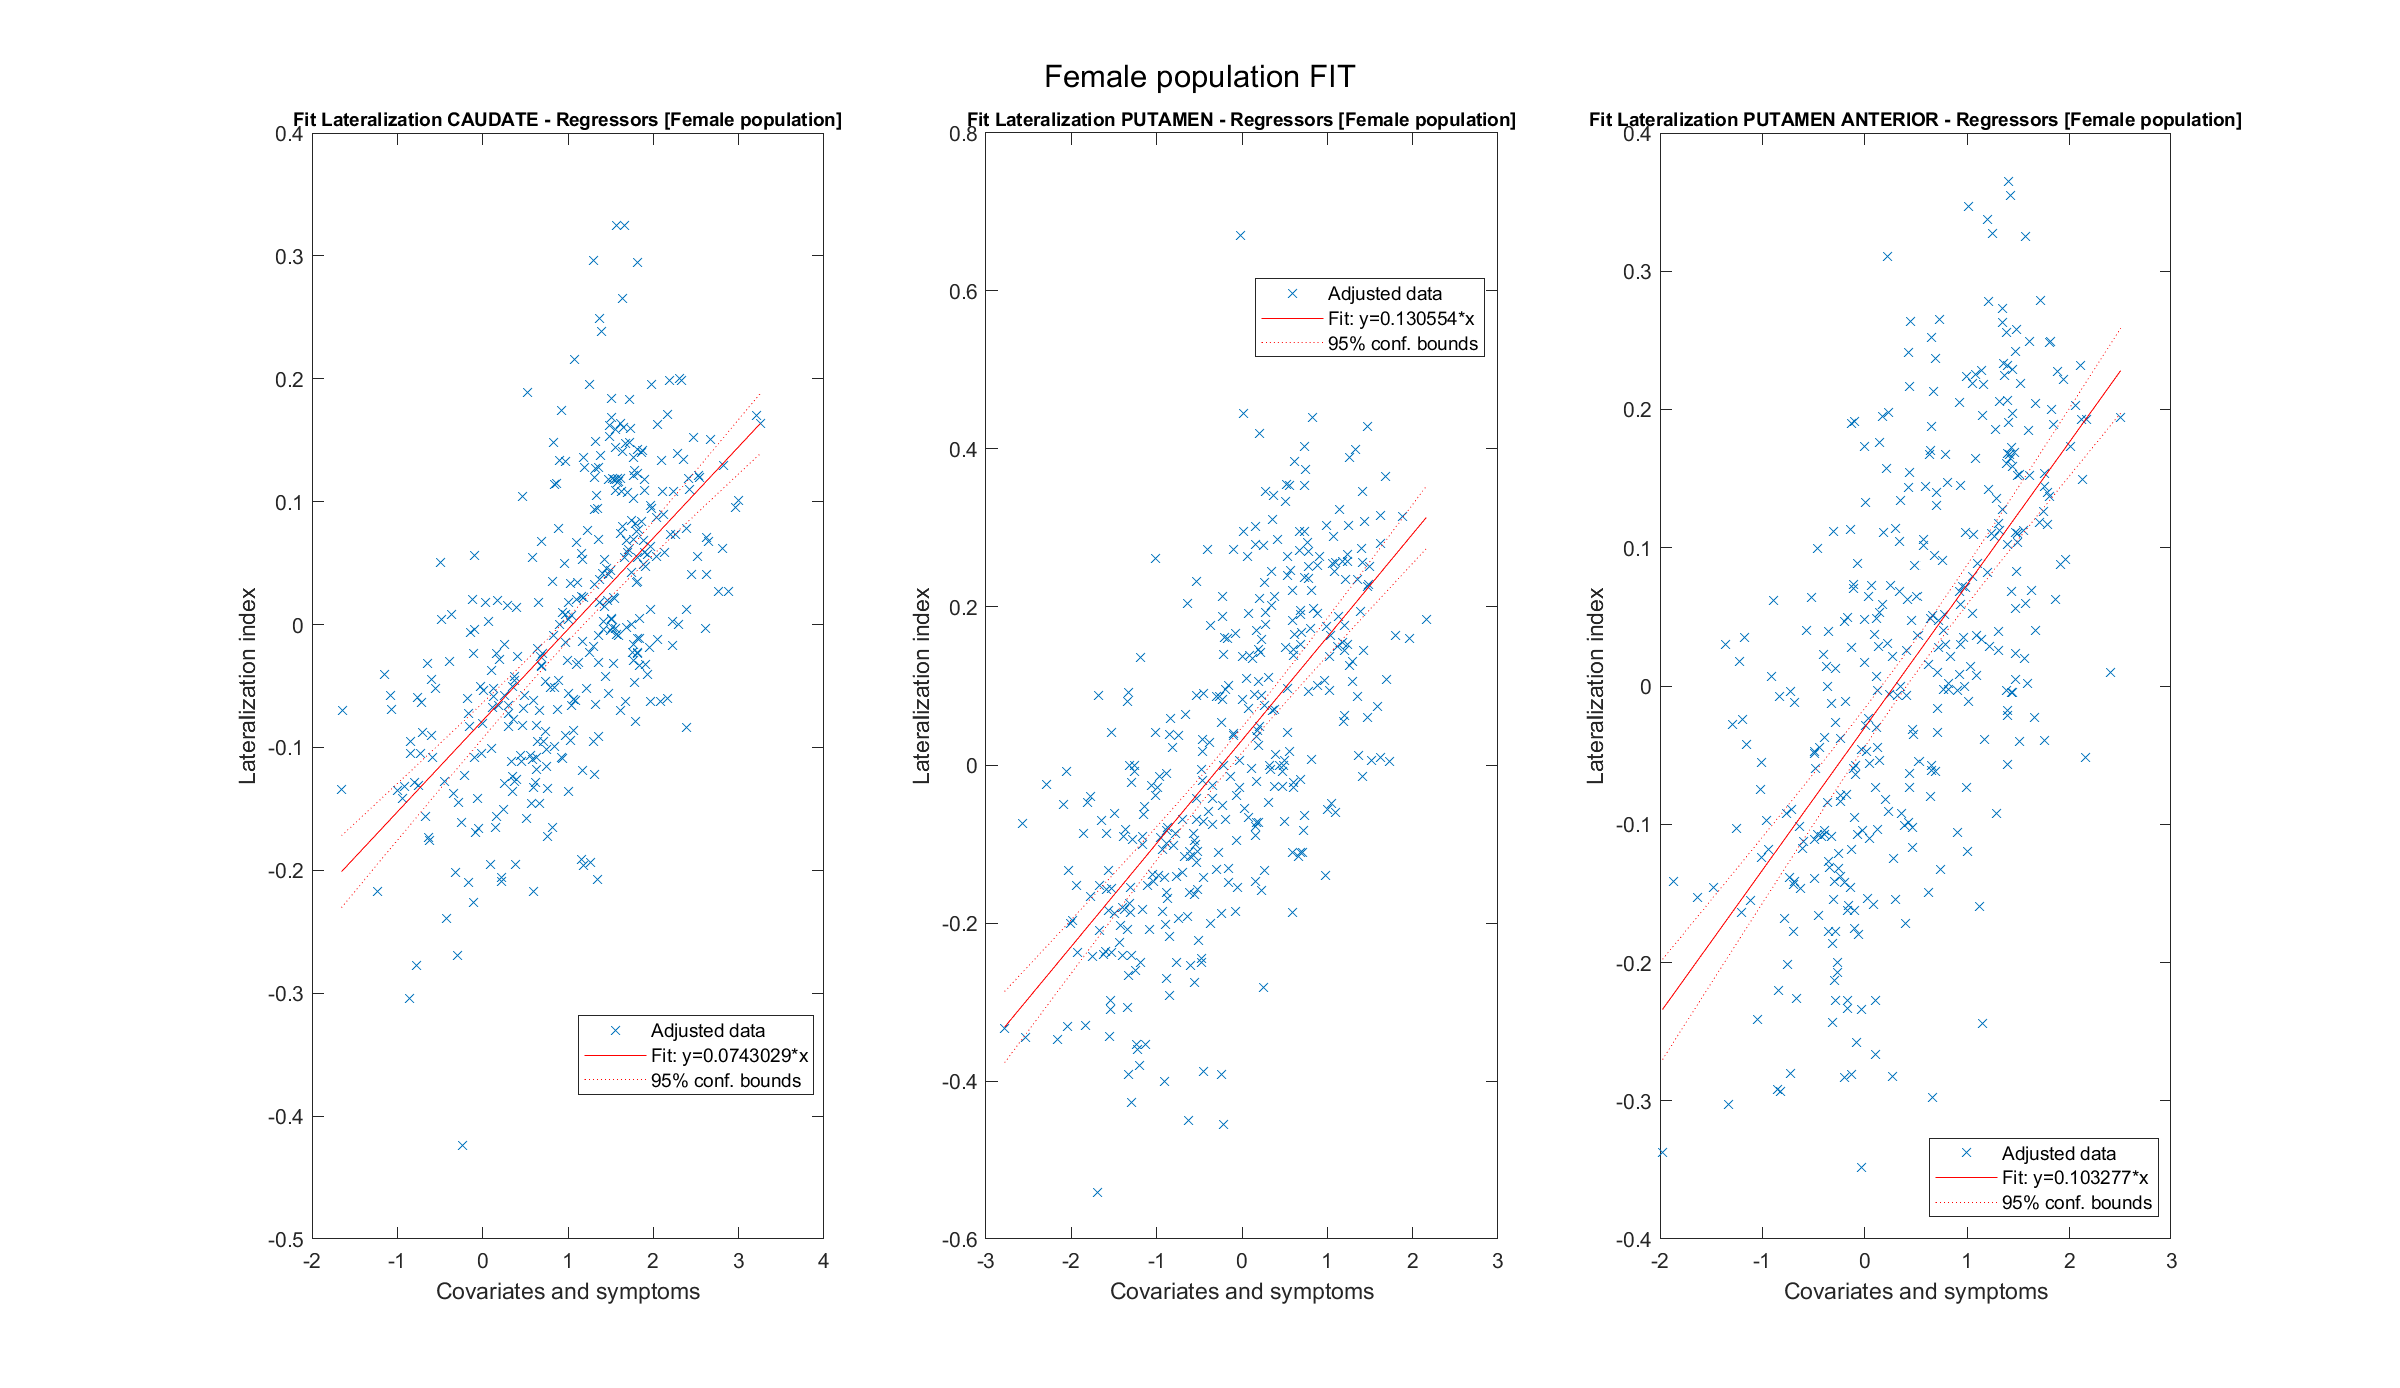
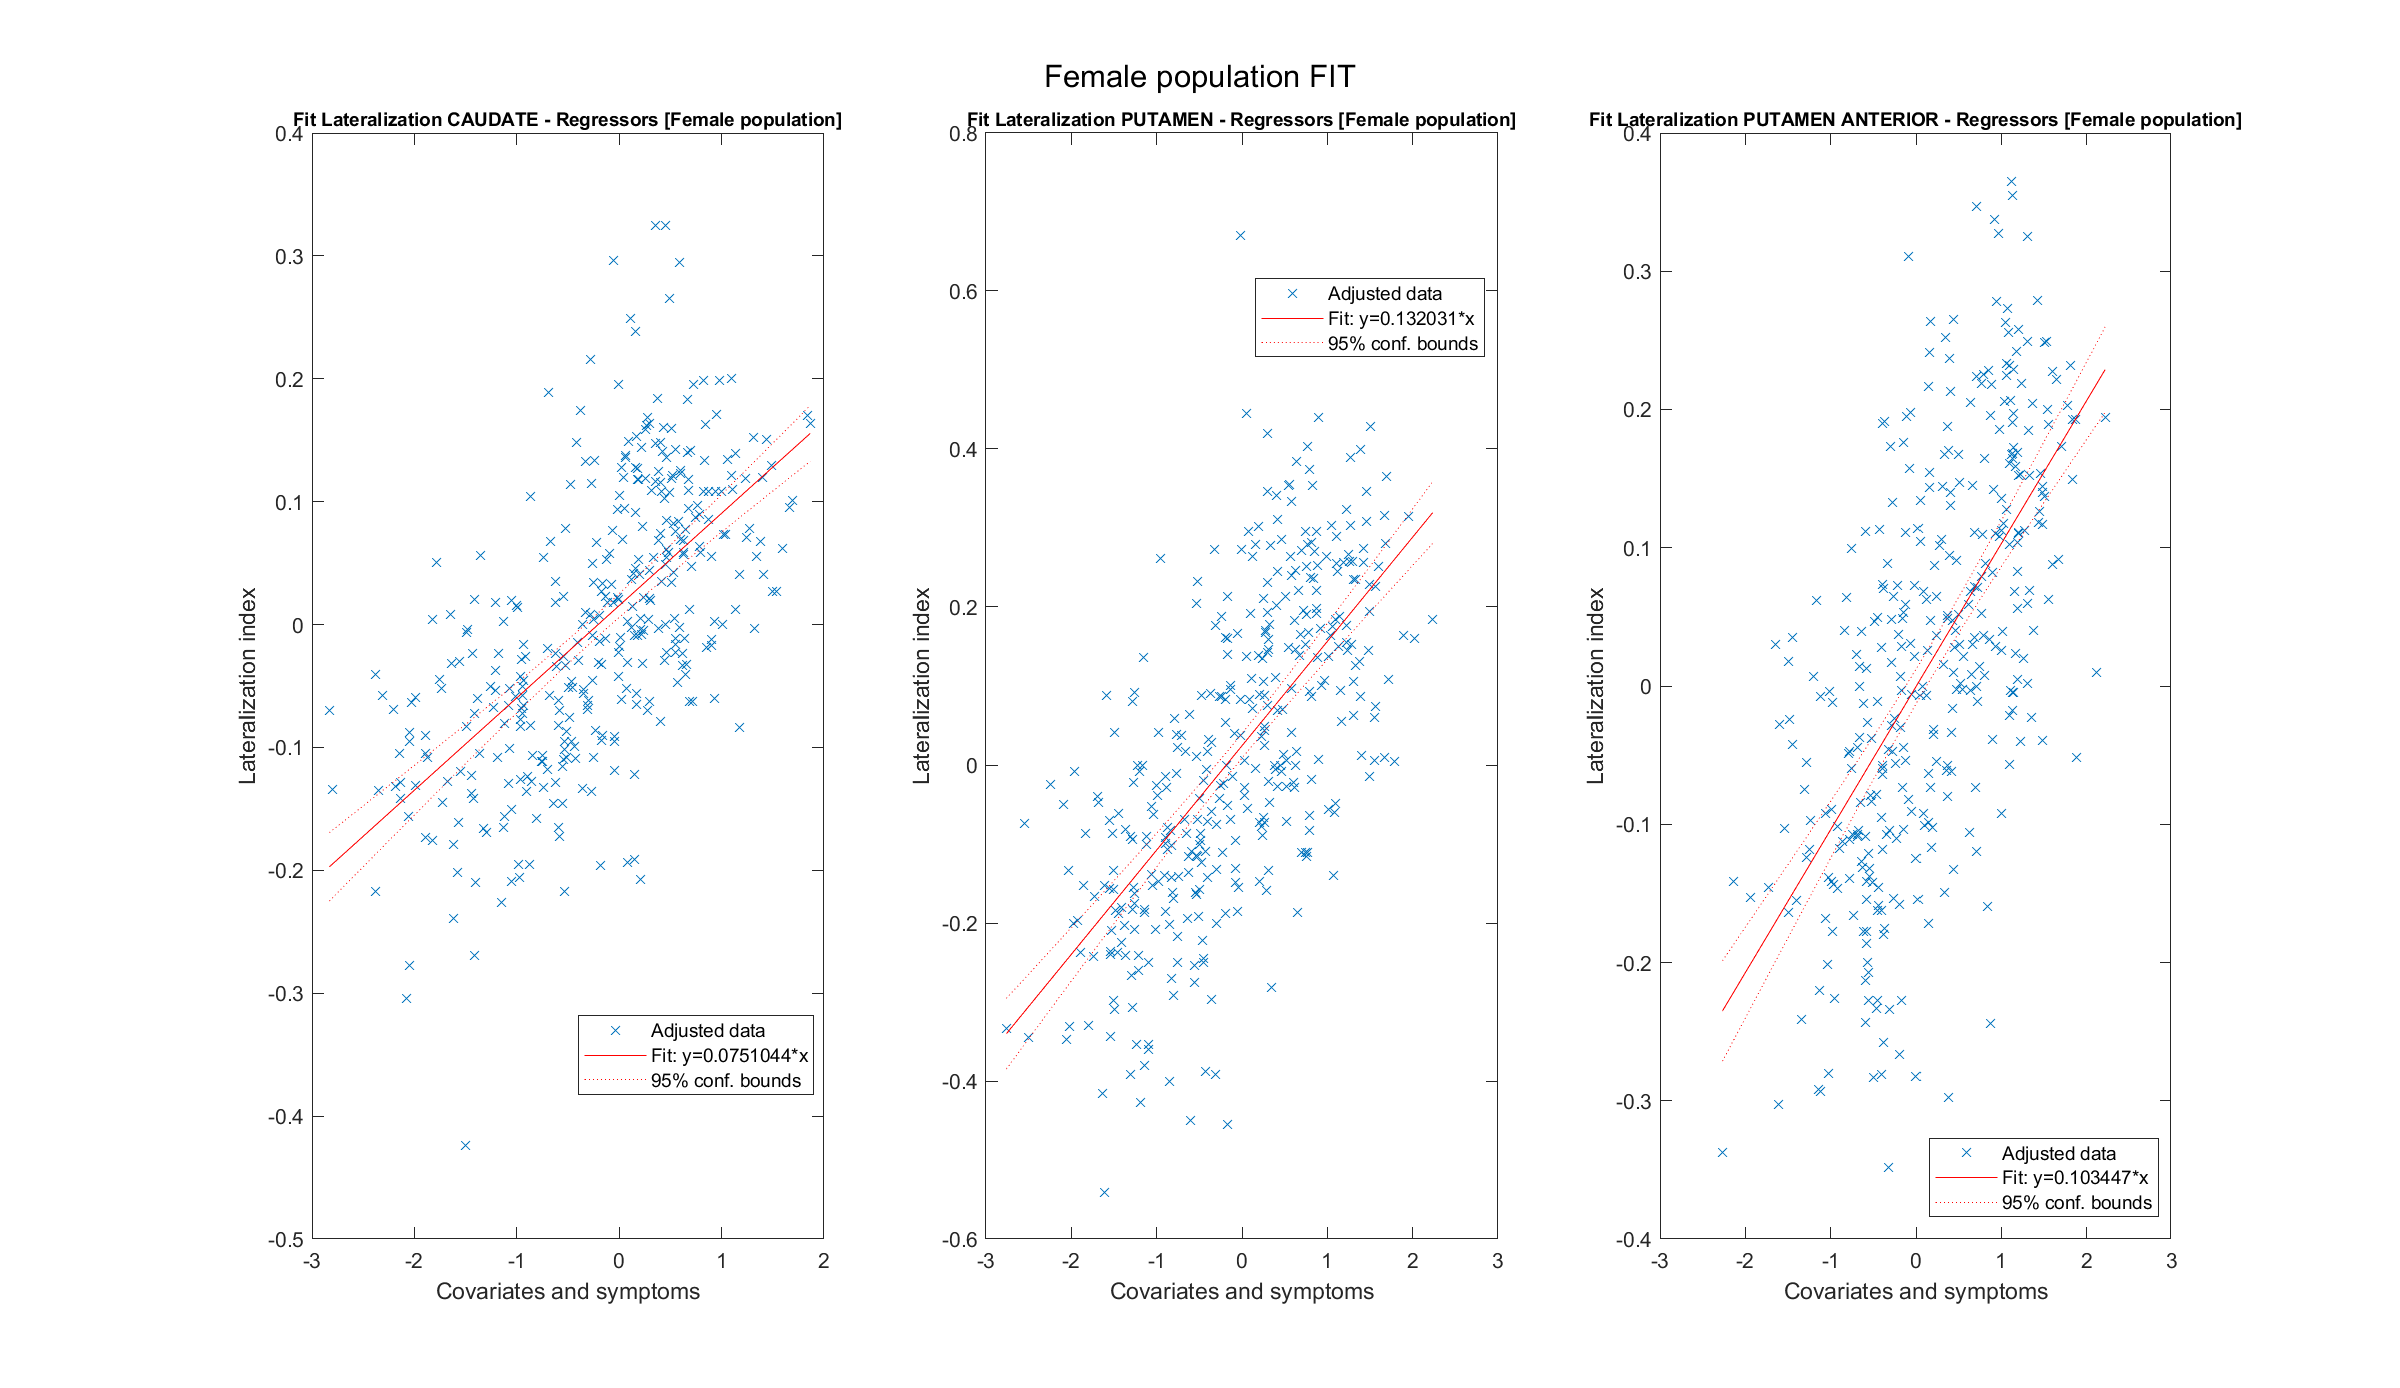
choose covariates

Changed region(s): [[0.7188, 0.2169, 0.875, 0.7435], [0.4375, 0.3408, 0.5938, 0.7435], [0.1562, 0.2788, 0.3125, 0.6506]]

diff --git a/hm_biomarkers_new_version.m b/hm_biomarkers_new_version.m
@@ -800,12 +800,49 @@ for i=1:3
 
 end
 
+a = regressors_pd_array.CAUDATE;
+a(:,2) = [];
+b = regressors_pd_array.CAUDATE;
+b(:,3) = [];
+c = [regressors_pd_array.CAUDATE(:,2),regressors_pd_array.CAUDATE(:,4:end)];
+d = [regressors_pd_array.CAUDATE(:,1),regressors_pd_array.CAUDATE(:,4:end)];
+
+
+
+permutazioni_caud = {regressors_pd_array.CAUDATE; regressors_pd_array.CAUDATE(:,2:end); regressors_pd_array.CAUDATE(:,3:end);regressors_pd_array.CAUDATE(:,4:end);a ; b;c;d};
+names_permutazioni_caud = {'ALL';'HEIGHT & WEIGHT';'WEIGHT';'NOTHING';'AGE & WEIGHT';'AGE & HEIGHT';'AGE';'HEIGHT'};
+R_squared_caud = [];
+model_caud_pd = {};
+
+clear a b c d
+
+permutazioni_put = {regressors_pd_array.PUTAMEN;regressors_pd_array.PUTAMEN(:,2:end)};
+names_permutazioni_put = {'WEIGHT';'NOTHING'};
+R_squared_put = [];
+model_put_pd= {};
+
+a = regressors_pd_array.PUTAMEN_ANT;
+a(:,2) = [];
+permutazioni_put_ant = {regressors_pd_array.PUTAMEN_ANT; regressors_pd_array.PUTAMEN_ANT(:,2:end); regressors_pd_array.PUTAMEN_ANT(:,3:end); a};
+names_permutazioni_put_ant = {'ALL';'WEIGHT';'NOTHING';'HEIGHT'};
+R_squared_put_ant = [];
+model_put_ant_pd = {};
+
+clear a
+
+
+
 figure(26)
 set(gcf, 'Position', get(0, 'Screensize'));
 
 subplot(131)
-model_caud_pd = fitlm(regressors_pd_array.CAUDATE,NOT_ABS.LATERALIZATION_coeff.CAUDATE.PD);
-plot(model_caud_pd)
+for i=1:8
+    model_caud_pd{i} = fitlm(permutazioni_caud{i},NOT_ABS.LATERALIZATION_coeff.CAUDATE.PD);
+    R_squared_caud(i) = model_caud_pd{i}.Rsquared.Adjusted;
+end
+[max_R_squared_caud,idx_max_R_squared_caud] = max(R_squared_caud);
+plot(model_caud_pd{idx_max_R_squared_caud})
+covariate_fit.CAUDATE.ALL = names_permutazioni_caud{idx_max_R_squared_caud};
 % xlim([-0.5 0.6])
 % ylim([-0.6 0.8])
 xlabel('Covariates and symptoms')
@@ -813,8 +850,16 @@ ylabel('Lateralization index')
 title('Caudate linear fit - PD')
 
 subplot(132)
-model_put_pd = fitlm(regressors_pd_array.PUTAMEN,NOT_ABS.LATERALIZATION_coeff.PUTAMEN.PD);
-plot(model_put_pd)
+for i=1:2
+    model_put_pd{i} = fitlm(permutazioni_put{i},NOT_ABS.LATERALIZATION_coeff.PUTAMEN.PD);
+    R_squared_put(i) = model_put_pd{i}.Rsquared.Adjusted;
+end
+[max_R_squared_put,idx_max_R_squared_put] = max(R_squared_put);
+
+plot(model_put_pd{idx_max_R_squared_put})
+covariate_fit.PUTAMEN.ALL = names_permutazioni_put{idx_max_R_squared_put};
+
+
 % xlim([-0.5 0.6])
 % ylim([-0.6 0.8])
 xlabel('Covariates and symptoms')
@@ -822,8 +867,16 @@ ylabel('Lateralization index')
 title('Putamen linear fit - PD')
 
 subplot(133)
-model_put_ant_pd = fitlm(regressors_pd_array.PUTAMEN_ANT,NOT_ABS.LATERALIZATION_coeff.PUTAMEN_ANT.PD);
-plot(model_put_ant_pd)
+for i=1:4
+    model_put_ant_pd{i} = fitlm(permutazioni_put_ant{i},NOT_ABS.LATERALIZATION_coeff.PUTAMEN_ANT.PD);
+    R_squared_put_ant(i) = model_put_ant_pd{i}.Rsquared.Adjusted;
+end
+[max_R_squared_put_ant,idx_max_R_squared_put_ant] = max(R_squared_put_ant);
+
+plot(model_put_ant_pd{idx_max_R_squared_put_ant})
+covariate_fit.PUTAMEN_ANT.ALL = names_permutazioni_put_ant{idx_max_R_squared_put_ant};
+
+
 % xlim([-0.5 0.6])
 % ylim([-0.6 0.8])
 xlabel('Covariates and symptoms')
@@ -835,9 +888,9 @@ sgtitle('Lateralization index - Regressors FIT PD')
 saveas(figure(26), "fit_covariates_pd.png", "png")
 
 %% ----- Statistics
-anova_caud_pd = anova(model_caud_pd,'summary');
-anova_put_pd = anova(model_put_pd,'summary');
-anova_put_ant_pd = anova(model_put_ant_pd,'summary');
+anova_caud_pd = anova(model_caud_pd{idx_max_R_squared_caud},'summary');
+anova_put_pd = anova(model_put_pd{idx_max_R_squared_put},'summary');
+anova_put_ant_pd = anova(model_put_ant_pd{idx_max_R_squared_put},'summary');
 
 
 %% SEPARATIONS Male - Female
@@ -858,28 +911,74 @@ for i=1:3
     regressors_female_array.(ROIs_labels(i)) = regressors_pd_array.(ROIs_labels(i))(idx_female_population,:);
 end
 
+% Permutazioni Male
+a = regressors_male_array.CAUDATE;
+a(:,2) = [];
+b = regressors_male_array.CAUDATE;
+b(:,3) = [];
+c = [regressors_male_array.CAUDATE(:,2),regressors_male_array.CAUDATE(:,4:end)];
+d = [regressors_male_array.CAUDATE(:,1),regressors_male_array.CAUDATE(:,4:end)];
+
+permutazioni_caud_male = {regressors_male_array.CAUDATE; regressors_male_array.CAUDATE(:,2:end); regressors_male_array.CAUDATE(:,3:end);regressors_male_array.CAUDATE(:,4:end);a ; b;c;d};
+R_squared_caud_male = [];
+model_caud_male = {};
+
+clear a b c d
+
+permutazioni_put_male = {regressors_male_array.PUTAMEN;regressors_male_array.PUTAMEN(:,2:end)};
+R_squared_put_male = [];
+model_put_male= {};
+
+a = regressors_male_array.PUTAMEN_ANT;
+a(:,2) = [];
+permutazioni_put_ant_male = {regressors_male_array.PUTAMEN_ANT; regressors_male_array.PUTAMEN_ANT(:,2:end); regressors_male_array.PUTAMEN_ANT(:,3:end); a};
+R_squared_put_ant_male = [];
+model_put_ant_male = {};
+
+clear a
+
+
 % Male fit
-model_caud_male = fitlm(regressors_male_array.CAUDATE,male_lateralization_coeff.CAUDATE);
-model_put_male = fitlm(regressors_male_array.PUTAMEN,male_lateralization_coeff.PUTAMEN);
-model_put_ant_male = fitlm(regressors_male_array.PUTAMEN_ANT,male_lateralization_coeff.PUTAMEN_ANT);
+for i=1:8
+    model_caud_male{i} = fitlm(permutazioni_caud_male{i},male_lateralization_coeff.CAUDATE);
+    R_squared_caud_male(i) = model_caud_male{i}.Rsquared.Adjusted;
+end
+[max_R_squared_caud_male,idx_max_R_squared_caud_male] = max(R_squared_caud_male);
+covariate_fit.CAUDATE.MALE = names_permutazioni_caud{idx_max_R_squared_caud_male};
+
+for i=1:2
+    model_put_male{i} = fitlm(permutazioni_put_male{i},male_lateralization_coeff.PUTAMEN);
+    R_squared_put_male(i) = model_put_male{i}.Rsquared.Adjusted;
+end
+[max_R_squared_put_male,idx_max_R_squared_put_male] = max(R_squared_put_male);
+covariate_fit.PUTAMEN.MALE = names_permutazioni_put{idx_max_R_squared_put_male};
+
+
+for i=1:4
+    model_put_ant_male{i} = fitlm(permutazioni_put_ant_male{i},male_lateralization_coeff.PUTAMEN_ANT);
+    R_squared_put_ant_male(i) = model_put_ant_male{i}.Rsquared.Adjusted;
+end
+[max_R_squared_put_ant_male,idx_max_R_squared_put_ant_male] = max(R_squared_put_ant_male);
+covariate_fit.PUTAMEN_ANT.MALE = names_permutazioni_put_ant{idx_max_R_squared_put_ant_male};
+
 
 figure(27)
 set(gcf, 'Position', get(0, 'Screensize'));
 
 subplot(131)
-plot(model_caud_male)
+plot(model_caud_male{idx_max_R_squared_caud_male})
 xlabel('Covariates and symptoms')
 ylabel('Lateralization index')
 t = title('Fit Lateralization CAUDATE - Regressors [Male population]');
 set(t, 'FontSize', 9)
 subplot(132)
-plot(model_put_male)
+plot(model_put_male{idx_max_R_squared_put_male})
 xlabel('Covariates and symptoms')
 ylabel('Lateralization index')
 t = title('Fit Lateralization PUTAMEN - Regressors [Male population]');
 set(t, 'FontSize', 9)
 subplot(133)
-plot(model_put_ant_male)
+plot(model_put_ant_male{idx_max_R_squared_put_ant_male})
 xlabel('Covariates and symptoms')
 ylabel('Lateralization index')
 t = title('Fit Lateralization PUTAMEN ANTERIOR - Regressors [Male population]');
@@ -889,40 +988,83 @@ sgtitle('Male population FIT')
 saveas(figure(27), "fit_covariates_male.png", "png")
 clear t
 
+
+
+% Permutazioni Female
+a = regressors_female_array.CAUDATE;
+a(:,2) = [];
+b = regressors_female_array.CAUDATE;
+b(:,3) = [];
+c = [regressors_female_array.CAUDATE(:,2),regressors_female_array.CAUDATE(:,4:end)];
+d = [regressors_female_array.CAUDATE(:,1),regressors_female_array.CAUDATE(:,4:end)];
+
+permutazioni_caud_female = {regressors_female_array.CAUDATE; regressors_female_array.CAUDATE(:,2:end); regressors_female_array.CAUDATE(:,3:end);regressors_female_array.CAUDATE(:,4:end);a ; b;c;d};
+R_squared_caud_female = [];
+model_caud_female = {};
+
+clear a b c d
+
+permutazioni_put_female = {regressors_female_array.PUTAMEN;regressors_female_array.PUTAMEN(:,2:end)};
+R_squared_put_female = [];
+model_put_female= {};
+
+a = regressors_female_array.PUTAMEN_ANT;
+a(:,2) = [];
+permutazioni_put_ant_female = {regressors_female_array.PUTAMEN_ANT; regressors_female_array.PUTAMEN_ANT(:,2:end); regressors_female_array.PUTAMEN_ANT(:,3:end); a};
+R_squared_put_ant_female = [];
+model_put_ant_female = {};
+
+clear a
+
 % Female fit
 
-model_caud_female = fitlm(regressors_female_array.CAUDATE,female_lateralization_coeff.CAUDATE);
-model_put_female = fitlm(regressors_female_array.PUTAMEN,female_lateralization_coeff.PUTAMEN);
-model_put_ant_female = fitlm(regressors_female_array.PUTAMEN_ANT,female_lateralization_coeff.PUTAMEN_ANT);
+for i=1:8
+    model_caud_female{i} = fitlm(permutazioni_caud_female{i},female_lateralization_coeff.CAUDATE);
+    R_squared_caud_female(i) = model_caud_female{i}.Rsquared.Adjusted;
+end
+[max_R_squared_caud_female,idx_max_R_squared_caud_female] = max(R_squared_caud_female);
+covariate_fit.CAUDATE.FEMALE = names_permutazioni_caud{idx_max_R_squared_caud_female};
+
+for i=1:2
+    model_put_female{i} = fitlm(permutazioni_put_female{i},female_lateralization_coeff.PUTAMEN);
+    R_squared_put_female(i) = model_put_female{i}.Rsquared.Adjusted;
+end
+[max_R_squared_put_female,idx_max_R_squared_put_female] = max(R_squared_put_female);
+covariate_fit.PUTAMEN.FEMALE = names_permutazioni_put{idx_max_R_squared_put_female};
+
+for i=1:4
+    model_put_ant_female{i} = fitlm(permutazioni_put_ant_female{i},female_lateralization_coeff.PUTAMEN_ANT);
+    R_squared_put_ant_female(i) = model_put_ant_female{i}.Rsquared.Adjusted;
+end
+[max_R_squared_put_ant_female,idx_max_R_squared_put_ant_female] = max(R_squared_put_ant_female);
+covariate_fit.PUTAMEN_ANT.FEMALE = names_permutazioni_put_ant{idx_max_R_squared_put_ant_female};
 
 figure(28)
 set(gcf, 'Position', get(0, 'Screensize'));
 
 subplot(131)
-plot(model_caud_female)
+plot(model_caud_female{idx_max_R_squared_caud_female})
 xlabel('Covariates and symptoms')
 ylabel('Lateralization index')
 t = title('Fit Lateralization CAUDATE - Regressors [Female population]');
 set(t, 'FontSize', 9)
 subplot(132)
-plot(model_put_female)
+plot(model_put_female{idx_max_R_squared_put_female})
 xlabel('Covariates and symptoms')
 ylabel('Lateralization index')
 t = title('Fit Lateralization PUTAMEN - Regressors [Female population]');
 set(t, 'FontSize', 9)
 subplot(133)
-plot(model_put_ant_female)
+plot(model_put_ant_female{idx_max_R_squared_put_ant_female})
 xlabel('Covariates and symptoms')
 ylabel('Lateralization index')
-t=title('Fit Lateralization PUTAMEN ANTERIOR - Regressors [Female population]');
+t = title('Fit Lateralization PUTAMEN ANTERIOR - Regressors [Female population]');
 set(t, 'FontSize', 9)
 
-
 sgtitle('Female population FIT')
-
 saveas(figure(28), "fit_covariates_female.png", "png")
-
 clear t
+
 
 
 %% SIMPTOMS LATERALITY INDEX
@@ -1003,6 +1145,44 @@ saveas(figure(27), "fit asimmetry index.png", "png")
 % 
 % figure
 % plot(mcatot_pd)
+
+% %% Prova lasso
+% 
+% figure(30)
+% set(gcf, 'Position', get(0, 'Screensize'));
+% 
+% subplot(131)
+% coeff_model_caud_pd = lasso(regressors_pd_array.CAUDATE,NOT_ABS.LATERALIZATION_coeff.CAUDATE.PD);
+% lasso_model_caud_pd = fitlm(regressors_pd_array.CAUDATE*coeff_model_caud_pd,NOT_ABS.LATERALIZATION_coeff.CAUDATE.PD);
+% plot(lasso_model_caud_pd)
+% % xlim([-0.5 0.6])
+% % ylim([-0.6 0.8])
+% xlabel('Covariates and symptoms')
+% ylabel('Lateralization index')
+% title('Caudate linear fit - PD')
+% 
+% subplot(132)
+% coeff_model_put_pd = lasso(regressors_pd_array.PUTAMEN,NOT_ABS.LATERALIZATION_coeff.PUTAMEN.PD);
+% lasso_model_put_pd = fitlm(regressors_pd_array.PUTAMEN*coeff_model_put_pd,NOT_ABS.LATERALIZATION_coeff.PUTAMEN.PD);
+% 
+% plot(lasso_model_put_pd)
+% % xlim([-0.5 0.6])
+% % ylim([-0.6 0.8])
+% xlabel('Covariates and symptoms')
+% ylabel('Lateralization index')
+% title('Putamen linear fit - PD')
+% 
+% subplot(133)
+% coeff_model_put_ant_pd = lasso(regressors_pd_array.PUTAMEN_ANT,NOT_ABS.LATERALIZATION_coeff.PUTAMEN_ANT.PD);
+% lasso_model_put_ant_pd = fitlm(regressors_pd_array.PUTAMEN_ANT*coeff_model_put_ant_pd,NOT_ABS.LATERALIZATION_coeff.PUTAMEN_ANT.PD);
+% 
+% plot(lasso_model_put_ant_pd)
+% % xlim([-0.5 0.6])
+% % ylim([-0.6 0.8])
+% xlabel('Covariates and symptoms')
+% ylabel('Lateralization index')
+% title('Putamen Anterior linear fit - PD')
+% sgtitle('Lateralization index - Regressors FIT PD')
 
 
 
